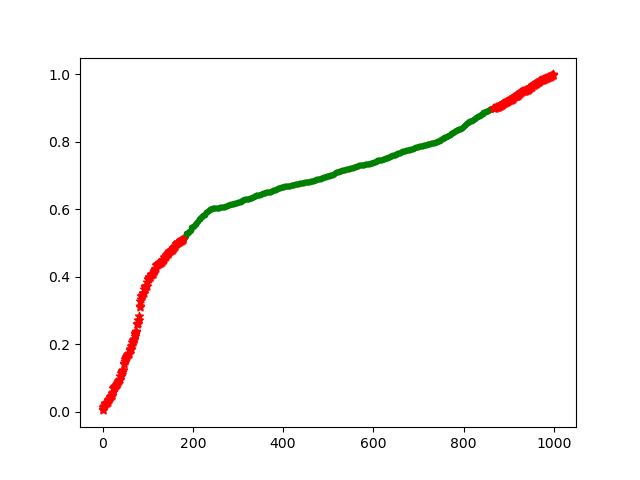
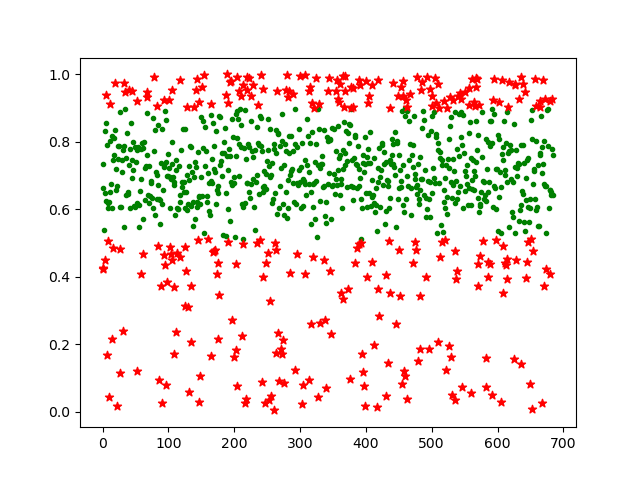
Images

diff --git a/Outliers/simple_numeric_outlier.py b/Outliers/simple_numeric_outlier.py
@@ -25,7 +25,9 @@ def numeric_outlier(X, k):
 	outliers_index = [i for i in range(len(X)) if X[i]<Q1-k*IQR or X[i]>Q3+k*IQR]
 	return outliers_index
 
-def imager(X, Y, outlier_X, outlier_Y):
+def imager(X, Y, outlier_X, outlier_Y, l):
+	X = random.sample(X, len(X))
+	outlier_X = random.sample(outlier_X, l)
 	plt.scatter(X, Y, color='green', marker='.')
 	plt.scatter(outlier_X, outlier_Y, color='red', marker='*')
 	plt.savefig('numeric_outlier.png')
@@ -44,7 +46,9 @@ def accuracy(outliers_index, X):
 
 def main(X, k):
 	outliers_index = numeric_outlier(X, k)
-	imager(range(len(X)), X, outliers_index, [X[i] for i in outliers_index])
+	outliers = [X[i] for i in outliers_index]
+	X_c = [X[i] for i in range(len(X)) if i not in outliers_index]
+	imager(range(len(X_c)), X_c, range(len(X_c)), outliers, len(outliers_index))
 	#print(X)
 	return accuracy(outliers_index, X)
 
